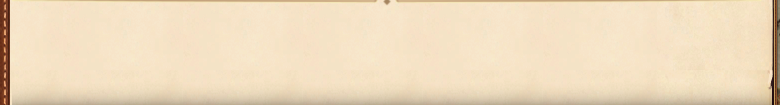
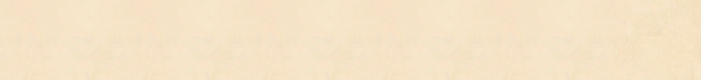
changed crop size on chest scan

Changed region(s): [[0.0, 0.0, 1.0, 1.0], [0.0599, 0.0, 0.9586, 0.05]]

diff --git a/gameFunctions.js b/gameFunctions.js
@@ -127,7 +127,7 @@ async function chestScanFunc(page, count, name) {
     await page.mouse.click(180, 250); // clicks on banks button to prevent afk ad from showing up
     await page.screenshot({
       path: `screenshots/${name}s/${name}${count}.png`,
-      clip: { x: 340, y: 175, width: 780, height: 120 },
+      clip: { x: 382, y: 193, width: 701, height: 80 },
     });
 
     const scroll = PNG.sync.read(fs.readFileSync("screenshots/scroll.png"));
